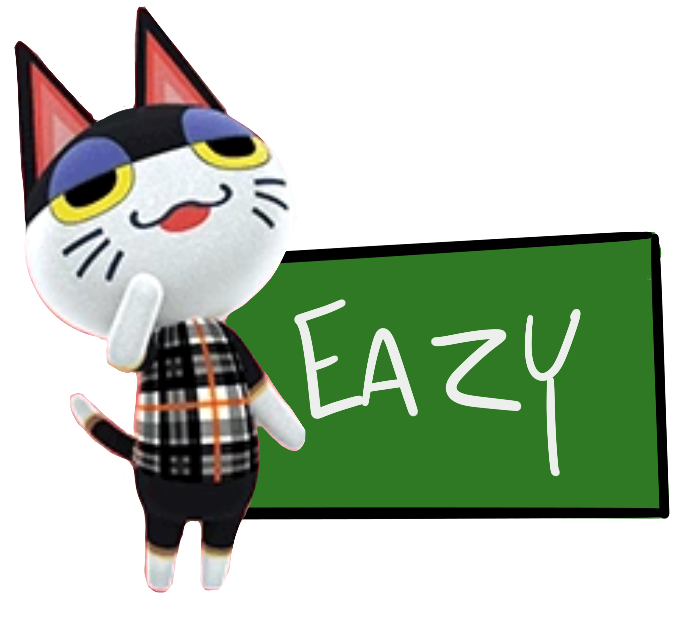
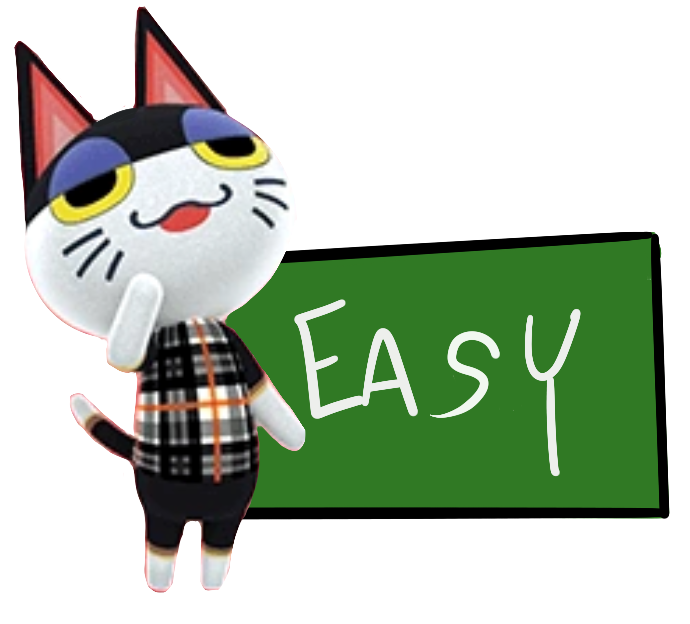
quiz corrections/update

Changed region(s): [[0.6087, 0.5176, 0.7609, 0.6699]]

diff --git a/src/components/HardQuiz.tsx b/src/components/HardQuiz.tsx
@@ -35,10 +35,10 @@ const HardQuiz = () => {
     {
       text: "The Common Painting was known for depicting the lives of whom?",
       options: [
-        { id: 0, text: "Farmers", isCorrect: false },
-        { id: 1, text: "Women", isCorrect: false },
+        { id: 0, text: "Pilgrims", isCorrect: false },
+        { id: 1, text: "Women and Children", isCorrect: false },
         { id: 2, text: "Commoners", isCorrect: true },
-        { id: 3, text: "Men", isCorrect: false },
+        { id: 3, text: "A Barnyard", isCorrect: false },
       ],
     },
     {
@@ -64,7 +64,7 @@ const HardQuiz = () => {
     {
       text: "How long did Michelangelo take to sculpt the Gallant Statue?",
       options: [
-        { id: 0, text: "3 year", isCorrect: true },
+        { id: 0, text: "3 years", isCorrect: true },
         { id: 1, text: "7 years", isCorrect: false },
         { id: 2, text: "15 weeks", isCorrect: false },
         { id: 3, text: "9 days", isCorrect: false },
@@ -109,10 +109,10 @@ const HardQuiz = () => {
     {
       text: "What is Wistful Painting also known as?",
       options: [
-        { id: 0, text: "Girl with a Pearl Earring", isCorrect: false },
+        { id: 0, text: "Girl with a Pearl Earring", isCorrect: true },
         { id: 1, text: "Girl with a Blue Turban", isCorrect: false },
         { id: 2, text: "Girl with the Blue Eyes", isCorrect: false },
-        { id: 3, text: "Girl with a Turban", isCorrect: true },
+        { id: 3, text: "Girl with a Turban", isCorrect: false },
       ],
     },
 
@@ -129,10 +129,10 @@ const HardQuiz = () => {
     {
       text: "What was the artist of the Scenic Painting also known as?",
       options: [
-        { id: 0, text: "The Elder", isCorrect: false },
-        { id: 1, text: "Peasant Artist", isCorrect: true },
-        { id: 2, text: "Pieter Brueghel", isCorrect: false },
-        { id: 3, text: "Pieter Brueghel the Elder", isCorrect: false },
+        { id: 0, text: "Peter Burger the Old", isCorrect: false },
+        { id: 1, text: "Patrick Burner the Ancient", isCorrect: false },
+        { id: 2, text: "Phillip Bailey the Senior", isCorrect: false },
+        { id: 3, text: "Pieter Brueghel the Elder", isCorrect: true },
       ],
     },
 
@@ -147,7 +147,7 @@ const HardQuiz = () => {
     },
 
     {
-      text: "The Sinking Painting is of the tragic figure of which Shakespearan plays?",
+      text: "The Sinking Painting is of a tragic figure from which Shakespearan play?",
       options: [
         { id: 0, text: "Hamlet", isCorrect: true },
         { id: 1, text: "Macbeth", isCorrect: false },
@@ -157,7 +157,7 @@ const HardQuiz = () => {
     },
 
     {
-      text: "What major revolution was going on when the Worth Painting was painted?",
+      text: "What major revolution was going on when the Worthy Painting was painted?",
       options: [
         { id: 0, text: "The American Revolutionary War", isCorrect: false },
         { id: 1, text: "The French Revolution", isCorrect: true },

diff --git a/src/components/EasyQuiz.tsx b/src/components/EasyQuiz.tsx
@@ -33,7 +33,7 @@ const EasyQuiz = () => {
       ],
     },
     {
-      text: "Which art piece has an unknown author to this day?",
+      text: "Which of these art pieces has an unknown author to this day?",
       options: [
         { id: 0, text: "Basic Painting", isCorrect: false },
         { id: 1, text: "Familiar Statue", isCorrect: false },
@@ -86,7 +86,7 @@ const EasyQuiz = () => {
     },
 
     {
-      text: "The Famous Painting is known as:",
+      text: "The Famous Painting's true title is known as:",
       options: [
         { id: 0, text: "Mona Lisa", isCorrect: true },
         { id: 1, text: "Lona Misa", isCorrect: false },
@@ -108,16 +108,16 @@ const EasyQuiz = () => {
           text: "The painting does not have a forgery.",
           isCorrect: true,
         },
-        { id: 3, text: "The stems are green.", isCorrect: false },
+        { id: 3, text: "The stems are colored bright blue", isCorrect: false },
       ],
     },
     {
       text: "Twinkling Painting is famously known as what?",
       options: [
-        { id: 0, text: "The Stars of the Night", isCorrect: false },
+        { id: 0, text: "The Stars of the Village at Night", isCorrect: false },
         { id: 1, text: "The Starry Night", isCorrect: true },
-        { id: 2, text: "The Night is Starry", isCorrect: false },
-        { id: 3, text: "You gotta know this.", isCorrect: false },
+        { id: 2, text: "The Swirling Stars", isCorrect: false },
+        { id: 3, text: "A Star Over Paris", isCorrect: false },
       ],
     },
     {
@@ -147,7 +147,6 @@ const EasyQuiz = () => {
     setCurrentQuestion(0);
     setShowResults(false);
   };
-
 
   return (
     <div className="EasyQuiz">
